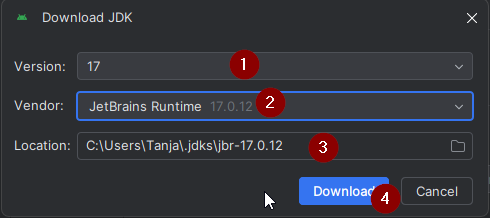
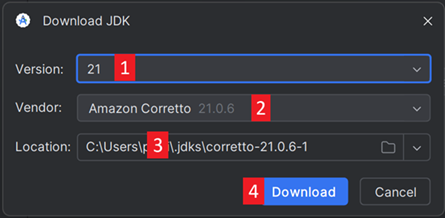
Download JDK 21

diff --git a/docs/EN/GettingHelp/TroubleshootingAndroidStudio.md b/docs/EN/GettingHelp/TroubleshootingAndroidStudio.md
@@ -167,7 +167,7 @@ If you experience the above error message, you need to download a correct JVM ve
 
 ![Select Download JDK](../images/studioTroubleshooting/162_DownloadJDK.png)
 
-4. In Version (1), select the JDK required for your **AAPS** version (the one you made a note of when you checked the requirement table). In Vendor (2) select 'JetBrains Runtime'. Location (3): do not change.
+4. In Version (1), select the JDK required for your **AAPS** version (the one you made a note of when you checked the requirement table). In Vendor (2) select any Vendor. Location (3): do not change.
 
 ![Select JDK 17](../images/studioTroubleshooting/163_JDKSelection.png)
 
